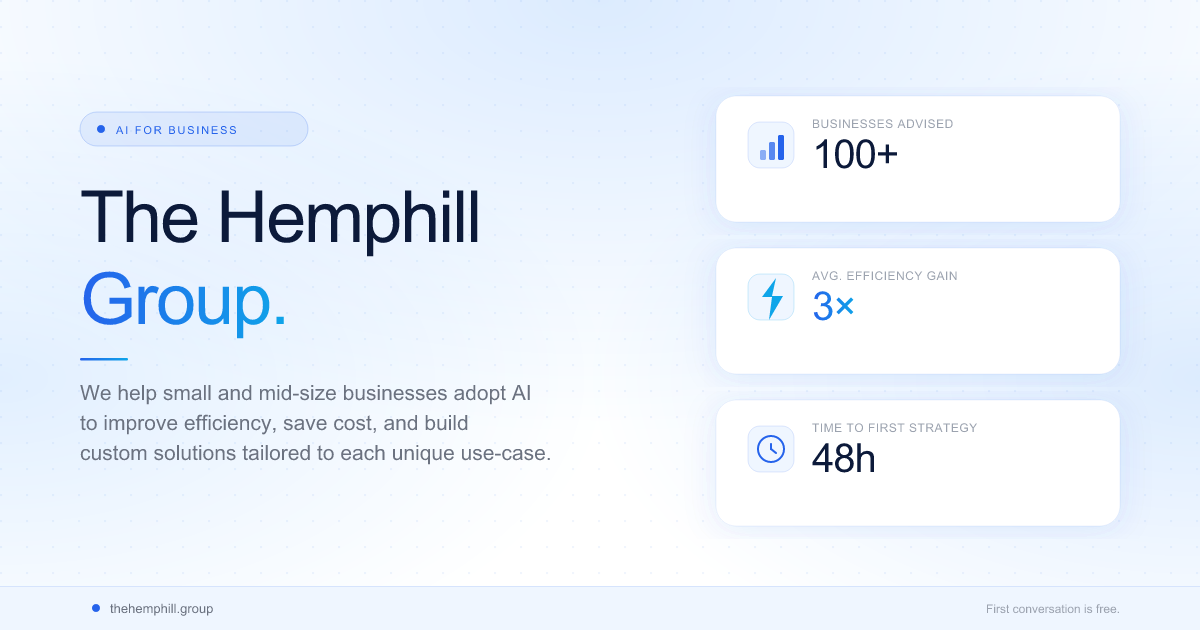
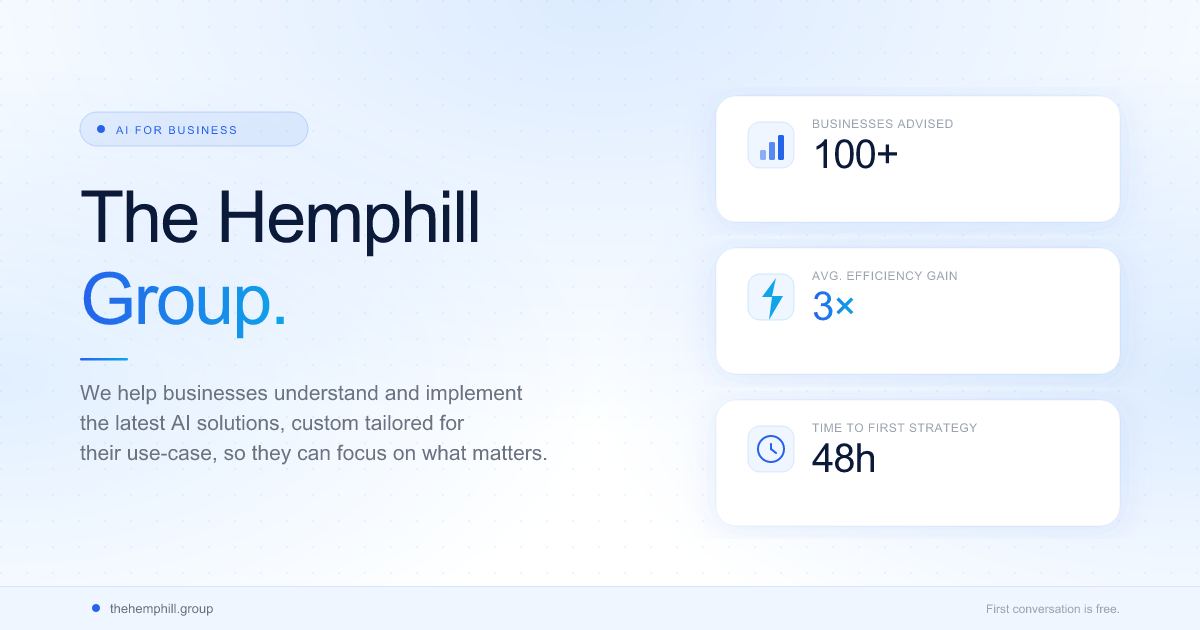
Update tagline across site and OG image

Changed region(s): [[0.0617, 0.6032, 0.4625, 0.754]]

diff --git a/index.html b/index.html
@@ -9,7 +9,7 @@
   <meta property="og:type"        content="website">
   <meta property="og:url"         content="https://thehemphill.group">
   <meta property="og:title"       content="The Hemphill Group — AI for Business">
-  <meta property="og:description" content="We help small and mid-size businesses adopt AI to improve efficiency, save cost, and build custom solutions tailored to each unique use-case.">
+  <meta property="og:description" content="We help businesses understand and implement the latest AI solutions, custom tailored for their use-case, allowing them to focus more time on what matters most.">
   <meta property="og:image"       content="https://thehemphill.group/og-image.png">
   <meta property="og:image:type"  content="image/png">
   <meta property="og:image:width" content="1200">
@@ -18,7 +18,7 @@
   <!-- Twitter / X Card -->
   <meta name="twitter:card"        content="summary_large_image">
   <meta name="twitter:title"       content="The Hemphill Group — AI for Business">
-  <meta name="twitter:description" content="We help small and mid-size businesses adopt AI to improve efficiency, save cost, and build custom solutions tailored to each unique use-case.">
+  <meta name="twitter:description" content="We help businesses understand and implement the latest AI solutions, custom tailored for their use-case, allowing them to focus more time on what matters most.">
   <meta name="twitter:image"       content="https://thehemphill.group/og-image.png">
 
   <link rel="preconnect" href="https://fonts.googleapis.com">
@@ -517,7 +517,7 @@
     <h1 class="r d1">Tell us your<br>biggest <em>challenge</em></h1>
 
     <p class="hero-sub r d2">
-      We help small and mid-size businesses adopt AI to improve efficiency, save cost, and build custom solutions tailored to each unique use-case.
+      We help businesses understand and implement the latest AI solutions, custom tailored for their use-case, allowing them to focus more time on what matters most.
     </p>
 
     <div class="chat-wrap r d3">